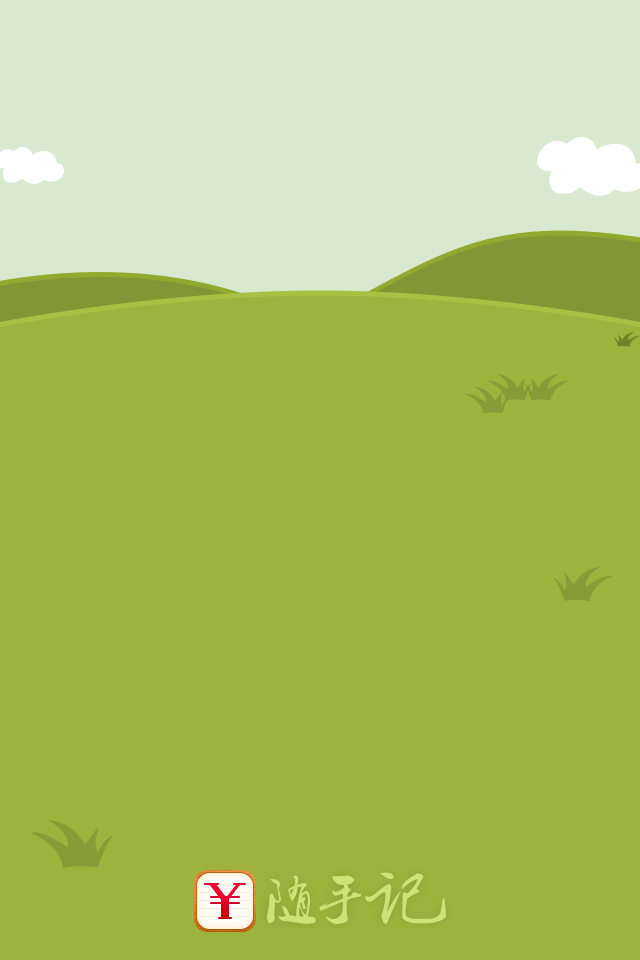
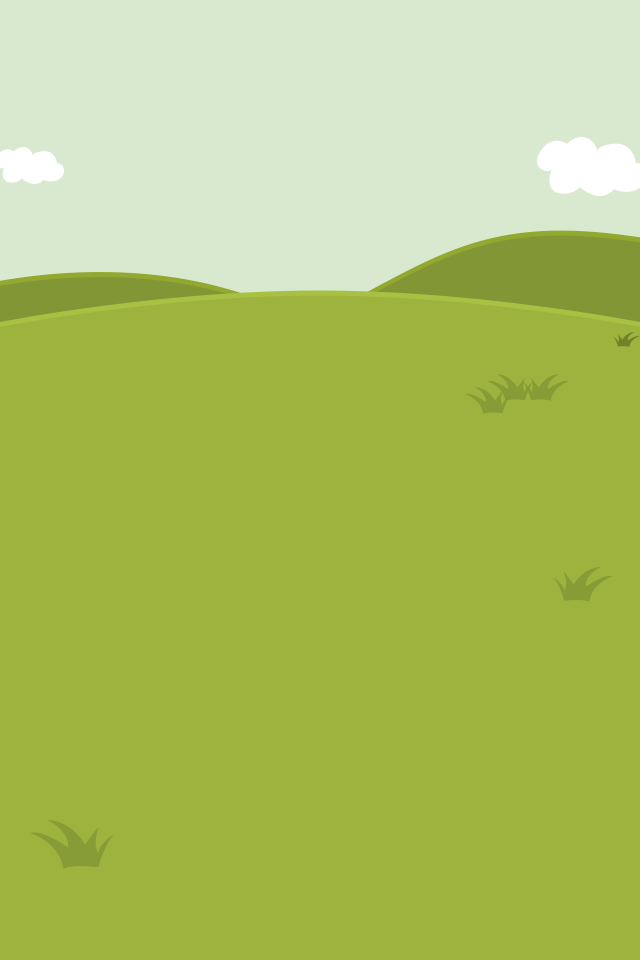
ver1.0

Changed region(s): [[0.2812, 0.9062, 0.7188, 0.9688]]

diff --git a/ssGameThree/ssGameThree.js b/ssGameThree/ssGameThree.js
@@ -523,7 +523,12 @@ cc.LoaderSceneForssGameFour=cc.Scene.extend({_logo:null,_logoTexture:null,_textu
 cc.LayerColor.create(cc.c4(253,231,214,255));this._bgLayer.setPosition(0,0);this.addChild(this._bgLayer,0);this._label=cc.LabelTTF.create("\u73a9\u547d\u52a0\u8f7d\u4e2d... 0%","Arial",35);this._label.setColor(cc.c3(64,64,64));this._label.setPosition(cc.p(0.5*this._winSize.width,0.5*this._winSize.height));this._bgLayer.addChild(this._label,10)},_initStage:function(a){this._texture2d=new cc.Texture2D;this._texture2d.initWithElement(this._logoTexture);this._texture2d.handleLoadedTexture();this._logo=
 cc.Sprite.createWithTexture(this._texture2d);this._logo.setScale(cc.CONTENT_SCALE_FACTOR());this._logo.setPosition(a);this._bgLayer.addChild(this._logo,10)},onEnter:function(){cc.Node.prototype.onEnter.call(this);this.schedule(this._startLoading,0.5)},onExit:function(){cc.Node.prototype.onExit.call(this);this._label.setString("\u73a9\u547d\u52a0\u8f7d\u4e2d... 0%")},initWithResources:function(a,c,d){this.resources=a;this.selector=c;this.target=d},_startLoading:function(){this.unschedule(this._startLoading);
 cc.Loader.preload(this.resources,this.selector,this.target);this.schedule(this._updatePercent)},_updatePercent:function(){var a=cc.Loader.getInstance().getPercentage();this._label.setString("\u73a9\u547d\u52a0\u8f7d\u4e2d... "+a+"%");100<=a&&this.unschedule(this._updatePercent)}});
-cc.LoaderSceneForssGameFour.preload=function(a,c,d){this._instance||(this._instance=new cc.LoaderSceneForssGameFour,this._instance.init());this._instance.initWithResources(a,c,d);a=cc.Director.getInstance();a.getRunningScene()?a.replaceScene(this._instance):a.runWithScene(this._instance);return this._instance};cc.DrawingPrimitive=cc.Class.extend({_renderContext:null,setRenderContext:function(a){this._renderContext=a},getRenderContext:function(){return this._renderContext},ctor:function(a){this._renderContext=a},drawPoint:function(a){cc.log("DrawingPrimitive.drawPoint() not implement!")},drawPoints:function(a,c){cc.log("DrawingPrimitive.drawPoints() not implement!")},drawLine:function(a,c){cc.log("DrawingPrimitive.drawLine() not implement!")},drawRect:function(a,c){cc.log("DrawingPrimitive.drawRect() not implement!")},
+cc.LoaderSceneForssGameFour.preload=function(a,c,d){this._instance||(this._instance=new cc.LoaderSceneForssGameFour,this._instance.init());this._instance.initWithResources(a,c,d);a=cc.Director.getInstance();a.getRunningScene()?a.replaceScene(this._instance):a.runWithScene(this._instance);return this._instance};
+cc.LoaderSceneForssPageOne=cc.Scene.extend({_logo:null,_logoTexture:null,_texture2d:null,_bgLayer:null,_label:null,_winSize:null,ctor:function(){cc.Scene.prototype.ctor.call(this);this._winSize=cc.Director.getInstance().getWinSize()},init:function(){cc.Scene.prototype.init.call(this);var a=cc.p(this._winSize.width/2,0.6*this._winSize.height);this._logoTexture=new Image;var c=this,d;this._logoTexture.addEventListener("load",d=function(){c._initStage(a);this.removeEventListener("load",d,!1)});this._logoTexture.width=
+208;this._logoTexture.height=190;this._bgLayer=cc.LayerColor.create(cc.c4(254,184,0,255));this._bgLayer.setPosition(0,0);this.addChild(this._bgLayer,0);this._label=cc.LabelTTF.create("\u73a9\u547d\u52a0\u8f7d\u4e2d... 0%","Arial",35);this._label.setColor(cc.c3(250,250,250));this._label.setPosition(cc.p(0.5*this._winSize.width,0.5*this._winSize.height));this._bgLayer.addChild(this._label,10)},_initStage:function(a){this._texture2d=new cc.Texture2D;this._texture2d.initWithElement(this._logoTexture);
+this._texture2d.handleLoadedTexture();this._logo=cc.Sprite.createWithTexture(this._texture2d);this._logo.setScale(cc.CONTENT_SCALE_FACTOR());this._logo.setPosition(a);this._bgLayer.addChild(this._logo,10)},onEnter:function(){cc.Node.prototype.onEnter.call(this);this.schedule(this._startLoading,0.5)},onExit:function(){cc.Node.prototype.onExit.call(this);this._label.setString("\u73a9\u547d\u52a0\u8f7d\u4e2d... 0%")},initWithResources:function(a,c,d){this.resources=a;this.selector=c;this.target=d},_startLoading:function(){this.unschedule(this._startLoading);
+cc.Loader.preload(this.resources,this.selector,this.target);this.schedule(this._updatePercent)},_updatePercent:function(){var a=cc.Loader.getInstance().getPercentage();this._label.setString("\u73a9\u547d\u52a0\u8f7d\u4e2d... "+a+"%");100<=a&&this.unschedule(this._updatePercent)}});
+cc.LoaderSceneForssPageOne.preload=function(a,c,d){this._instance||(this._instance=new cc.LoaderSceneForssPageOne,this._instance.init());this._instance.initWithResources(a,c,d);a=cc.Director.getInstance();a.getRunningScene()?a.replaceScene(this._instance):a.runWithScene(this._instance);return this._instance};cc.DrawingPrimitive=cc.Class.extend({_renderContext:null,setRenderContext:function(a){this._renderContext=a},getRenderContext:function(){return this._renderContext},ctor:function(a){this._renderContext=a},drawPoint:function(a){cc.log("DrawingPrimitive.drawPoint() not implement!")},drawPoints:function(a,c){cc.log("DrawingPrimitive.drawPoints() not implement!")},drawLine:function(a,c){cc.log("DrawingPrimitive.drawLine() not implement!")},drawRect:function(a,c){cc.log("DrawingPrimitive.drawRect() not implement!")},
 drawSolidRect:function(a,c,d){cc.log("DrawingPrimitive.drawSolidRect() not implement!")},drawPoly:function(a,c,d,e){cc.log("DrawingPrimitive.drawPoly() not implement!")},drawSolidPoly:function(a,c,d){cc.log("DrawingPrimitive.drawSolidPoly() not implement!")},drawCircle:function(a,c,d,e,f){cc.log("DrawingPrimitive.drawCircle() not implement!")},drawQuadBezier:function(a,c,d,e){cc.log("DrawingPrimitive.drawQuadBezier() not implement!")},drawCubicBezier:function(a,c,d,e,f){cc.log("DrawingPrimitive.drawCubicBezier() not implement!")},
 drawCatmullRom:function(a,c){cc.log("DrawingPrimitive.drawCardinalSpline() not implement!")},drawCardinalSpline:function(a,c,d){cc.log("DrawingPrimitive.drawCardinalSpline() not implement!")}});
 cc.DrawingPrimitiveCanvas=cc.DrawingPrimitive.extend({_cacheArray:[],drawPoint:function(a,c){c||(c=1);var d=cc.EGLView.getInstance().getScaleX(),e=cc.EGLView.getInstance().getScaleY(),e=cc.p(a.x*d,a.y*e);this._renderContext.beginPath();this._renderContext.arc(e.x,-e.y,c*d,0,2*Math.PI,!1);this._renderContext.closePath();this._renderContext.fill()},drawPoints:function(a,c,d){if(null!=a){d||(d=1);c=this._renderContext;var e=cc.EGLView.getInstance().getScaleX(),f=cc.EGLView.getInstance().getScaleY();
@@ -2515,13 +2520,13 @@ q.addWidget(n),n=ccs.ComRender.create(q,"GUIComponent"),null!=k&&n.setName(k),e.
 a)},setPropertyFromJsonDict:function(a,c){a.setPosition(cc.p("undefined"===typeof c.x?0:c.x,"undefined"===typeof c.y?0:c.y));a.setVisible(Boolean("undefined"===typeof c.visible?1:c.visible));a.setTag("undefined"===typeof c.objecttag?-1:c.objecttag);a.setZOrder("undefined"===typeof c.zorder?0:c.zorder);var d="undefined"===typeof c.scaley?1:c.scaley;a.setScaleX("undefined"===typeof c.scalex?1:c.scalex);a.setScaleY(d);a.setRotation("undefined"===typeof c.rotation?0:c.rotation)},setTarget:function(a,
 c){this._listener=c;this._selector=a},_callSelector:function(a,c){this._selector&&this._selector.call(this._listener,a,c)},purge:function(){cc.log("deprecated. purge is a static class now. Use 'ccs.SceneReader.purge()' instead.");this._instance=null}});ccs.SceneReader._instance=null;ccs.SceneReader.getInstance=function(){this._instance||(this._instance=new ccs.SceneReader);return this._instance};
 ccs.SceneReader.purge=function(){ccs.TriggerMng.getInstance().destroyInstance();cc.AudioEngine.end();this._instance=null};ccs.SceneReader.sceneReaderVersion=function(){return"1.2.0.0"};var s_img01="img_back.png",s_img02="img_btn_play.png",s_img03="img_btn_again.png",s_img04="img_btn_share.png",s_img05="img_cut1.png",s_img06="img_cut2.png",s_img07="img_sheep1.png",s_img08="img_sheep2.png",s_img09="img_cloud.png",s_img10="img_shield.png",s_img11="img_arrow.png",s_img12="img_mao.png",s_img13="img_flash.png",s_img14="img_sound_on.png",s_img15="img_sound_off.png",s_img16="img_star.png",s_img17="img_timer.png",s_img18="img_number.png",s_img19="img_neinei.png",s_img20="img_maozi.png",
-s_img21="img_yifu.png",s_img23="img_gift.png",s_img24="img_btn_enter.png",s_music="res/HD/music.mp3",s_effect="res/HD/effect.mp3",g_resources=[{src:s_img01},{src:s_img02},{src:s_img03},{src:s_img04},{src:s_img05},{src:s_img06},{src:s_img07},{src:s_img08},{src:s_img09},{src:s_img10},{src:s_img11},{src:s_img12},{src:s_img13},{src:s_img14},{src:s_img15},{src:s_img16},{src:s_img17},{src:s_img18},{src:s_img19},{src:s_img20},{src:s_img21},{src:s_img23},{src:s_img24},{src:s_music},{src:s_effect}];var beginLayer=cc.LayerColor.extend({winsize:null,sound:!0,init:function(){this._super();this.winsize=cc.Director.getInstance().getWinSize();this.audio=cc.AudioEngine.getInstance();var a=cc.Sprite.create(s_img01);a.setAnchorPoint(cc.p(0.5,0));a.setPosition(cc.p(0.5*this.winsize.width,0));this.addChild(a,0);a=cc.LabelTTF.create("\u624b\u6307\u70b9\u8fc7\uff0c\u7f8a\u6bdb\u98de\u98de","Arial",35);a.setAnchorPoint(cc.p(0.5,0.5));a.setPosition(cc.p(0.5*this.winsize.width,0.38*this.winsize.height));a.setColor(cc.c3(235,
-90,55));this.addChild(a,1);a=cc.MenuItemImage.create(s_img02,s_img02,this.startGame,this);a.setScale(0.8);a=cc.Menu.create(a);a.setPosition(cc.p(0.5*this.winsize.width,0.26*this.winsize.height));this.addChild(a,1);a=cc.Sprite.create(s_img07);a.setAnchorPoint(cc.p(0.5,0));a.setScale(0.8);a.setPosition(cc.p(0.5*this.winsize.width,0.45*this.winsize.height));this.addChild(a,2);var c=cc.Repeat.create(cc.Sequence.create(cc.DelayTime.create(1.2),cc.RotateBy.create(0.1,-20),cc.RotateBy.create(0.1,20),cc.RotateBy.create(0.1,
-20),cc.RotateBy.create(0.1,-20)),999);a.runAction(c);a=cc.Sprite.create(s_img14);a.setScale(0.7);a.setTag(100);a.setAnchorPoint(cc.p(1,0));a.setPosition(cc.p(this.winsize.width,0.75*this.winsize.height));this.addChild(a,1);var c=cc.RotateBy.create(0.5,10),d=cc.RotateBy.create(0.5,-10),e=cc.RotateBy.create(0.5,-10),f=cc.RotateBy.create(0.5,10),c=cc.Sequence.create(c,d,e,f);a.runAction(cc.RepeatForever.create(c));this.setTouchEnabled(!0);return!0},scheduleMao:function(){var a=cc.Sprite.create(s_img12),
-c=cc.Sprite.create(s_img12),d=cc.Sprite.create(s_img12),e=null,f=null,e=null;a.setScale(0.5);c.setScale(0.5);d.setScale(0.5);a.setPosition(cc.p(0.5*this.winsize.width,0.5*this.winsize.height));this.addChild(a,0);e=cc.Spawn.create(cc.MoveBy.create(0.4,cc.p(-60,60)),cc.RotateBy.create(0.4,180));f=cc.CallFunc.create(this.removeItem,this);e=cc.Sequence.create(e,f);a.runAction(e);c.setPosition(cc.p(0.5*this.winsize.width,0.5*this.winsize.height));this.addChild(c,0);e=cc.Spawn.create(cc.MoveBy.create(0.4,
-cc.p(60,60)),cc.RotateBy.create(0.4,180));f=cc.CallFunc.create(this.removeItem,this);e=cc.Sequence.create(e,f);c.runAction(e);d.setPosition(cc.p(0.5*this.winsize.width,0.5*this.winsize.height));this.addChild(d,0);e=cc.Spawn.create(cc.MoveBy.create(0.4,cc.p(0,-60)),cc.RotateBy.create(0.4,180));f=cc.CallFunc.create(this.removeItem,this);e=cc.Sequence.create(e,f);d.runAction(e)},startGame:function(){var a=mainLayer.create(this.sound);cc.Director.getInstance().replaceScene(cc.TransitionFade.create(0.5,
-a));!0==this.sound&&this.audio.playMusic(s_music,!0)},onTouchesBegan:function(a,c){var d=a[0].getLocation(),e=this.getChildByTag(100),f=e.getBoundingBox();cc.rectContainsPoint(f,d)&&(!1==this.sound?(this.sound=!0,e.initWithFile(s_img14)):(this.sound=!1,e.initWithFile(s_img15)),e.setAnchorPoint(cc.p(1,0)),e.setPosition(cc.p(this.winsize.width,0.75*this.winsize.height)))}}),MyScene=cc.Scene.extend({onEnter:function(){this._super();var a=new beginLayer;this.addChild(a);a.init()}});
-beginLayer.create=function(){var a=new beginLayer;a.init();var c=cc.Scene.create();c.addChild(a);return c};var cocos2dApp=cc.Application.extend({config:document.ccConfig,ctor:function(a){this._super();this.startScene=a;cc.COCOS2D_DEBUG=this.config.COCOS2D_DEBUG;cc.initDebugSetting();cc.setup(this.config.tag);cc.AppController.shareAppController().didFinishLaunchingWithOptions()},applicationDidFinishLaunching:function(){cc.Application.getInstance().getTargetPlatform();var a=cc.Director.getInstance();cc.EGLView.getInstance()._adjustSizeToBrowser();var c=[],d=[];c.push("res");cc.FileUtils.getInstance().setSearchPaths(c);
+s_img21="img_yifu.png",s_img22="img_logo.png",s_img24="img_btn_enter.png",s_music="res/HD/music.mp3",s_effect="res/HD/effect.mp3",g_resources=[{src:s_img01},{src:s_img02},{src:s_img03},{src:s_img04},{src:s_img05},{src:s_img06},{src:s_img07},{src:s_img08},{src:s_img09},{src:s_img10},{src:s_img11},{src:s_img12},{src:s_img13},{src:s_img14},{src:s_img15},{src:s_img16},{src:s_img17},{src:s_img18},{src:s_img19},{src:s_img20},{src:s_img21},{src:s_img22},{src:s_img24},{src:s_music},{src:s_effect}];var beginLayer=cc.LayerColor.extend({winsize:null,sound:!0,init:function(){this._super();this.winsize=cc.Director.getInstance().getWinSize();this.audio=cc.AudioEngine.getInstance();var a=cc.Sprite.create(s_img01);a.setAnchorPoint(cc.p(0.5,0));a.setPosition(cc.p(0.5*this.winsize.width,0));this.addChild(a,0);a=cc.LabelTTF.create("\u624b\u6307\u70b9\u8fc7\uff0c\u7f8a\u6bdb\u98de\u98de","Arial",33);a.setAnchorPoint(cc.p(0.5,0.5));a.setPosition(cc.p(0.5*this.winsize.width,0.37*this.winsize.height));a.setColor(cc.c3(0,
+0,0));this.addChild(a,1);a=cc.MenuItemImage.create(s_img02,s_img02,this.startGame,this);a=cc.Menu.create(a);a.setPosition(cc.p(0.5*this.winsize.width,0.26*this.winsize.height));this.addChild(a,1);a=cc.Sprite.create(s_img07);a.setAnchorPoint(cc.p(0.5,0));a.setScale(0.8);a.setPosition(cc.p(0.5*this.winsize.width,0.45*this.winsize.height));this.addChild(a,2);var c=cc.Repeat.create(cc.Sequence.create(cc.DelayTime.create(1.2),cc.RotateBy.create(0.1,-20),cc.RotateBy.create(0.1,20),cc.RotateBy.create(0.1,
+20),cc.RotateBy.create(0.1,-20)),999);a.runAction(c);a=cc.Sprite.create(s_img22);a.setScale(0.7);a.setPosition(cc.p(0.5*this.winsize.width,35));this.addChild(a,2);a=cc.Sprite.create(s_img14);a.setScale(0.7);a.setTag(100);a.setAnchorPoint(cc.p(1,0));a.setPosition(cc.p(this.winsize.width,0.75*this.winsize.height));this.addChild(a,1);var c=cc.RotateBy.create(0.5,10),d=cc.RotateBy.create(0.5,-10),e=cc.RotateBy.create(0.5,-10),f=cc.RotateBy.create(0.5,10),c=cc.Sequence.create(c,d,e,f);a.runAction(cc.RepeatForever.create(c));
+this.setTouchEnabled(!0);return!0},scheduleMao:function(){var a=cc.Sprite.create(s_img12),c=cc.Sprite.create(s_img12),d=cc.Sprite.create(s_img12),e=null,f=null,e=null;a.setScale(0.5);c.setScale(0.5);d.setScale(0.5);a.setPosition(cc.p(0.5*this.winsize.width,0.5*this.winsize.height));this.addChild(a,0);e=cc.Spawn.create(cc.MoveBy.create(0.4,cc.p(-60,60)),cc.RotateBy.create(0.4,180));f=cc.CallFunc.create(this.removeItem,this);e=cc.Sequence.create(e,f);a.runAction(e);c.setPosition(cc.p(0.5*this.winsize.width,
+0.5*this.winsize.height));this.addChild(c,0);e=cc.Spawn.create(cc.MoveBy.create(0.4,cc.p(60,60)),cc.RotateBy.create(0.4,180));f=cc.CallFunc.create(this.removeItem,this);e=cc.Sequence.create(e,f);c.runAction(e);d.setPosition(cc.p(0.5*this.winsize.width,0.5*this.winsize.height));this.addChild(d,0);e=cc.Spawn.create(cc.MoveBy.create(0.4,cc.p(0,-60)),cc.RotateBy.create(0.4,180));f=cc.CallFunc.create(this.removeItem,this);e=cc.Sequence.create(e,f);d.runAction(e)},startGame:function(){var a=mainLayer.create(this.sound);
+cc.Director.getInstance().replaceScene(cc.TransitionFade.create(0.5,a));!0==this.sound&&this.audio.playMusic(s_music,!0)},onTouchesBegan:function(a,c){var d=a[0].getLocation(),e=this.getChildByTag(100),f=e.getBoundingBox();cc.rectContainsPoint(f,d)&&(!1==this.sound?(this.sound=!0,e.initWithFile(s_img14)):(this.sound=!1,e.initWithFile(s_img15)),e.setAnchorPoint(cc.p(1,0)),e.setPosition(cc.p(this.winsize.width,0.75*this.winsize.height)))}}),MyScene=cc.Scene.extend({onEnter:function(){this._super();
+var a=new beginLayer;this.addChild(a);a.init()}});beginLayer.create=function(){var a=new beginLayer;a.init();var c=cc.Scene.create();c.addChild(a);return c};var cocos2dApp=cc.Application.extend({config:document.ccConfig,ctor:function(a){this._super();this.startScene=a;cc.COCOS2D_DEBUG=this.config.COCOS2D_DEBUG;cc.initDebugSetting();cc.setup(this.config.tag);cc.AppController.shareAppController().didFinishLaunchingWithOptions()},applicationDidFinishLaunching:function(){cc.Application.getInstance().getTargetPlatform();var a=cc.Director.getInstance();cc.EGLView.getInstance()._adjustSizeToBrowser();var c=[],d=[];c.push("res");cc.FileUtils.getInstance().setSearchPaths(c);
 d.push("HD");cc.FileUtils.getInstance().setSearchResolutionsOrder(d);cc.EGLView.getInstance().adjustViewPort(!0);cc.EGLView.getInstance().setDesignResolutionSize(640,840,cc.RESOLUTION_POLICY.SHOW_ALL);cc.EGLView.getInstance().resizeWithBrowserSize(!0);a.setAnimationInterval(1/this.config.frameRate);cc.LoaderSceneForGame01.preload(g_resources,function(){a.replaceScene(new this.startScene)},this);return!0}}),myApp=new cocos2dApp(MyScene);var mainLayer=cc.LayerColor.extend({winsize:null,sp_catch:null,schdSpeed:0.6,gameTime:0,gameScore:0,gameOver:!1,scoreLabel:null,timeLabel:null,score:0,onClickFlag:!1,_tag1:200,_tag2:240,sound:!1,isStop:!1,holeArray:null,timeCntl:0,beginCntl:!1,inWarning:!1,init:function(){this._super();this.winsize=cc.Director.getInstance().getWinSize();this.audio=cc.AudioEngine.getInstance();var a=cc.Sprite.create(s_img01);a.setAnchorPoint(cc.p(0.5,0));a.setPosition(cc.p(0.5*this.winsize.width,0));this.addChild(a,
 0);a=cc.Sprite.create(s_img17);a.setScale(0.5);a.setPosition(cc.p(0.1*this.winsize.width,0.95*this.winsize.height));this.addChild(a,0);a=cc.Sprite.create(s_img16);a.setScale(0.5);a.setPosition(cc.p(0.7*this.winsize.width,0.95*this.winsize.height));this.addChild(a,0);a=cc.Sprite.create(s_img09);a.setPosition(cc.p(0.5*-a.getContentSize().width,0.8*this.winsize.height));this.addChild(a,1);var c=cc.Repeat.create(cc.Sequence.create(cc.MoveTo.create(6,cc.p(this.winsize.width+0.5*a.getContentSize().width,
 0.8*this.winsize.height)),cc.DelayTime.create(1),cc.MoveTo.create(6,cc.p(0.5*-a.getContentSize().width,0.8*this.winsize.height))),999);a.runAction(c);this.timeLabel=cc.LabelAtlas.create(this.gameScore,s_img18,64,86,"0");this.timeLabel.setScale(0.4);this.timeLabel.setAnchorPoint(cc.p(0,0.5));this.timeLabel.setPosition(cc.p(0.18*this.winsize.width,0.95*this.winsize.height));this.addChild(this.timeLabel,1);this.scoreLabel=cc.LabelAtlas.create(this.gameScore,s_img18,64,86,"0");this.scoreLabel.setScale(0.4);
@@ -2537,15 +2542,14 @@ this),d=cc.Sequence.create(d,e),g.runAction(d),h.setPosition(c),this.addChild(h,
 0.5)),a.setPosition(c),this.addChild(a,4),a.runAction(cc.Sequence.create(cc.Spawn.create(cc.FadeOut.create(0.8),cc.MoveBy.create(0.8,cc.p(0,60))),cc.CallFunc.create(this.removeItem,this))))},onTouchesMoved:function(a,c){a[0].getLocation()},onTouchesEnded:function(a,c){a[0].getLocation()},onTouchesBegan:function(a,c){var d=a[0].getLocation(),e=this.getChildByTag(300),f=e.getBoundingBox();cc.rectContainsPoint(f,d)&&!this.inWarning&&(!1==this.sound?(this.sound=!0,e.initWithFile(s_img14),this.audio.playMusic(s_music,
 !0)):(this.sound=!1,e.initWithFile(s_img15),this.audio.stopMusic()),e.setAnchorPoint(cc.p(1,0)),e.setPosition(cc.p(this.winsize.width,0.75*this.winsize.height)));if(!this.inWarning)for(e=200;260>e;e++)if(f=this.getChildByTag(e),null!=f){var g=f.getBoundingBox();if(cc.rectContainsPoint(g,d))if(240>e)this.removeSheep(e);else if(!this.inWarning){this.inWarning=!0;g=cc.Sprite.create(s_img10);g.setPosition(cc.p(320,480));this.addChild(g,5);var h=cc.Sequence.create(cc.DelayTime.create(1.5),cc.CallFunc.create(this.removeItem,
 this));g.runAction(h);g=cc.Sequence.create(cc.Place.create(cc.p(320,450)),cc.DelayTime.create(1.5),cc.CallFunc.create(this.removeItem1,this));f.stopAllActions();f.setOpacity(255);f.setScale(0.8);f.setZOrder(20);f.runAction(g);f=cc.LabelTTF.create("\u545c\u545c\uff0c\u6211\u65e9\u88ab\u526a\u5149\u4e86","\u9ed1\u4f53",35);f.setAnchorPoint(cc.p(0.5,0.5));f.setPosition(cc.p(0.5*this.winsize.width,0.73*this.winsize.height));f.setColor(cc.c3(255,255,255));this.addChild(f,5);g=cc.Sequence.create(cc.DelayTime.create(1.5),
-cc.CallFunc.create(this.removeItem,this));f.runAction(g);this.sound&&this.audio.playEffect(s_effect)}}},setSound:function(a){this.sound=a}});mainLayer.create=function(a){var c=new mainLayer;c.setSound(a);c.init();a=cc.Scene.create();a.addChild(c);return a};var overLayer=cc.LayerColor.extend({winsize:null,score:0,isShared:!1,init:function(){this._super();this.winsize=cc.Director.getInstance().getWinSize();var a=cc.Sprite.create(s_img01);a.setAnchorPoint(cc.p(0.5,0));a.setPosition(cc.p(0.5*this.winsize.width,0));this.addChild(a,0);a=cc.Sprite.create(s_img13);a.setPosition(cc.p(0.5*this.winsize.width,0.6*this.winsize.height));this.addChild(a,1);var c=cc.RepeatForever.create(cc.RotateBy.create(4,360));a.runAction(c);a=cc.Sprite.create(s_img23);a.setPosition(cc.p(0.5*
-this.winsize.width,0.6*this.winsize.height));a.setTag(800);a.setRotation(-20);this.addChild(a,1);c=cc.Sequence.create(cc.DelayTime.create(0.25),cc.RotateBy.create(0.2,40),cc.RotateBy.create(0.2,-40),cc.RotateBy.create(0.2,40),cc.RotateBy.create(0.1,-20),cc.Spawn.create(cc.FadeOut.create(0.15),cc.ScaleTo.create(0.15,1.2)),cc.CallFunc.create(this.showResult,this));a.runAction(c);a=cc.LabelTTF.create("\u606d\u559c,\u4f60\u8585\u4e86"+(this.score/50).toFixed(1)+"\u65a4\u7f8a\u6bdb.","Arial",37);a.setAnchorPoint(cc.p(0.5,
-0.5));a.setTag(801);a.setPosition(cc.p(0.5*this.winsize.width,0.9*this.winsize.height));a.setColor(cc.c3(235,90,55));this.addChild(a,1);a=cc.MenuItemImage.create(s_img03,s_img03,this.gotoMainLayer,this);c=cc.Menu.create(a);a.setScale(0.8);c.setPosition(cc.p(0.5*this.winsize.width,0.4*this.winsize.height));c.setTag(100);this.addChild(c,1);a=cc.MenuItemImage.create(s_img04,s_img04,this.share2Friend,this);c=cc.Menu.create(a);a.setScale(0.8);c.setPosition(cc.p(0.5*this.winsize.width,0.3*this.winsize.height));
-c.setTag(101);this.addChild(c,1);a=cc.MenuItemImage.create(s_img24,s_img24,this.enterBBS,this);c=cc.Menu.create(a);a.setScale(0.8);c.setPosition(cc.p(0.5*this.winsize.width,0.2*this.winsize.height));c.setTag(105);this.addChild(c,1);this.setTouchEnabled(!0)},gotoMainLayer:function(){var a=beginLayer.create();cc.Director.getInstance().replaceScene(cc.TransitionFade.create(0.5,a))},showResult:function(){var a=this.getChildByTag(800),c=cc.LabelTTF.create("","Arial",37,cc.Size(500,200),cc.TEXT_ALIGNMENT_CENTER);
-c.setAnchorPoint(cc.p(0.5,0.5));c.setPosition(cc.p(0.5*this.winsize.width,0.81*this.winsize.height));c.setColor(cc.c3(235,90,55));this.addChild(c,1);a.runAction(cc.Sequence.create(cc.Spawn.create(cc.FadeIn.create(0.25),cc.ScaleTo.create(0.25,1.2)),cc.ScaleTo.create(0.15,1)));var d="";50>this.score?(d="\u6211\u8585\u7684\u7f8a\u6bdb\u592a\u5c11\uff0c\u88ab\u5c0f\u4f19\u4f34\u5b8c\u7206\uff0c\u5feb\u6765\u5e2e\u5e2e\u6211\uff01",c.setString("\u83b7\u5f97\u3010\u526a\u5200\u3011\n\u592a\u5c11\u4e86\uff0c\u505a\u6210\u793c\u7269\u81e3\u59be\u505a\u4e0d\u5230\u554a\uff01"),
-a.initWithFile(s_img05),a.setScale(1.4)):50<=this.score&&200>this.score?(d="\u6211\u8585\u4e86"+(this.score/50).toFixed(1)+"\u65a4\u7f8a\u6bdb\uff0c\u7ec7\u4e86\u4e00\u7f8a\u6bdb\u5185\u5185\u9001\u7ed9\u4f60\uff01",c.setString("\u83b7\u5f97\u3010\u7f8a\u6bdb\u5185\u5185\u3011\n\u5c41\u5c41\uff0c\u4e5f\u662f\u9700\u8981\u4fdd\u6696\u7684\uff01"),a.initWithFile(s_img19),window.wxData.imgUrl="http://aiwangames.com/ssGameThree/res/HD/shareImage1.png",window.wxFriend.imgUrl="http://aiwangames.com/ssGameThree/res/HD/shareImage1.png",
-document.getElementById("shareImage").src="http://aiwangames.com/ssGameThree/res/HD/shareImage1.png"):200<=this.score&&300>this.score?(d="\u6211\u8585\u4e86"+(this.score/50).toFixed(1)+"\u65a4\u7f8a\u6bdb\uff0c\u7ec7\u4e86\u4e00\u9876\u7f8a\u6bdb\u5e3d\u5b50\u9001\u7ed9\u4f60\uff01",c.setString("\u83b7\u5f97\u3010\u7f8a\u6bdb\u5e3d\u5b50\u3011\n\u6797\u6d77\u96ea\u539f\u7b49\u4f60\u5f81\u670d\uff01"),a.initWithFile(s_img20),window.wxData.imgUrl="http://aiwangames.com/ssGameThree/res/HD/shareImage2.png",
-window.wxFriend.imgUrl="http://aiwangames.com/ssGameThree/res/HD/shareImage2.png",document.getElementById("shareImage").src="http://aiwangames.com/ssGameThree/res/HD/shareImage2.png"):(d="\u6211\u8585\u4e86"+(this.score/50).toFixed(1)+"\u65a4\u7f8a\u6bdb\uff0c\u7ec7\u4e86\u4e00\u4ef6\u7f8a\u6bdb\u5927\u8863\u9001\u7ed9\u4f60\uff01",c.setString("\u83b7\u5f97\u3010\u7f8a\u6bdb\u5927\u8863\u3011\n\u5988\u5988\u518d\u4e5f\u4e0d\u7528\u62c5\u5fc3\u4f60\u88ab\u51bb\u574f\u4e86\uff01"),a.initWithFile(s_img21),
-window.wxData.imgUrl="http://aiwangames.com/ssGameThree/res/HD/shareImage3.png",window.wxFriend.imgUrl="http://aiwangames.com/ssGameThree/res/HD/shareImage3.png",document.getElementById("shareImage").src="http://aiwangames.com/ssGameThree/res/HD/shareImage3.png");document.title=window.wxData.desc=d;document.title=window.wxFriend.desc=d},share2Friend:function(){if(!1==this.isShared){var a=cc.Sprite.create(s_img10);a.setPosition(cc.p(0.5*this.winsize.width,0.5*this.winsize.height));a.setTag(102);this.addChild(a,
-5);a=cc.Sprite.create(s_img11);a.setPosition(cc.p(0.8*this.winsize.width,0.9*this.winsize.height));a.setTag(103);this.addChild(a,5);a=cc.LabelTTF.create("\u70b9\u51fb\u8fd9\u91cc\u5206\u4eab","\u9ed1\u4f53",35);a.setAnchorPoint(cc.p(0.5,0.5));a.setPosition(cc.p(0.5*this.winsize.width,0.78*this.winsize.height));a.setColor(cc.c3(255,255,255));a.setTag(104);this.addChild(a,5);this.getChildByTag(100)&&this.getChildByTag(100).setEnabled(!1);this.getChildByTag(101)&&this.getChildByTag(101).setEnabled(!1);
+cc.CallFunc.create(this.removeItem,this));f.runAction(g);this.sound&&this.audio.playEffect(s_effect)}}},setSound:function(a){this.sound=a}});mainLayer.create=function(a){var c=new mainLayer;c.setSound(a);c.init();a=cc.Scene.create();a.addChild(c);return a};var overLayer=cc.LayerColor.extend({winsize:null,score:0,isShared:!1,init:function(){this._super();this.winsize=cc.Director.getInstance().getWinSize();var a=cc.Sprite.create(s_img01);a.setAnchorPoint(cc.p(0.5,0));a.setPosition(cc.p(0.5*this.winsize.width,0));this.addChild(a,0);a=cc.Sprite.create(s_img13);a.setPosition(cc.p(0.5*this.winsize.width,0.6*this.winsize.height));this.addChild(a,1);var c=cc.RepeatForever.create(cc.RotateBy.create(4,360));a.runAction(c);this.showResult();a=cc.LabelTTF.create("\u606d\u559c,\u4f60\u8585\u4e86"+
+(this.score/50).toFixed(1)+"\u65a4\u7f8a\u6bdb","Arial",35);a.setAnchorPoint(cc.p(0.5,0.5));a.setTag(801);a.setPosition(cc.p(0.5*this.winsize.width,0.9*this.winsize.height));a.setColor(cc.c3(235,90,55));this.addChild(a,1);a=cc.MenuItemImage.create(s_img03,s_img03,this.gotoMainLayer,this);a=cc.Menu.create(a);a.setPosition(cc.p(0.5*this.winsize.width,0.26*this.winsize.height));a.setTag(100);this.addChild(a,1);a=cc.MenuItemImage.create(s_img04,s_img04,this.share2Friend,this);a=cc.Menu.create(a);a.setPosition(cc.p(0.5*
+this.winsize.width,0.37*this.winsize.height));a.setTag(101);this.addChild(a,1);a=cc.MenuItemImage.create(s_img24,s_img24,this.enterBBS,this);a=cc.Menu.create(a);a.setPosition(cc.p(0.5*this.winsize.width,0.15*this.winsize.height));a.setTag(105);this.addChild(a,1);a=cc.Sprite.create(s_img22);a.setScale(0.7);a.setPosition(cc.p(0.5*this.winsize.width,35));this.addChild(a,2);this.setTouchEnabled(!0)},gotoMainLayer:function(){var a=beginLayer.create();cc.Director.getInstance().replaceScene(cc.TransitionFade.create(0.5,
+a))},showResult:function(){var a=cc.Sprite.create(s_img05);a.setPosition(cc.p(0.5*this.winsize.width,0.6*this.winsize.height));this.addChild(a,5);var c=cc.LabelTTF.create("","Arial",32,cc.Size(500,200),cc.TEXT_ALIGNMENT_CENTER);c.setAnchorPoint(cc.p(0.5,0.5));c.setPosition(cc.p(0.5*this.winsize.width,0.81*this.winsize.height));c.setColor(cc.c3(235,90,55));this.addChild(c,1);var d="";50>this.score?(d="\u6211\u8585\u7684\u7f8a\u6bdb\u592a\u5c11\uff0c\u88ab\u5c0f\u4f19\u4f34\u5b8c\u7206\uff0c\u5feb\u6765\u5e2e\u5e2e\u6211\uff01",
+c.setString("\u83b7\u5f97 [ \u526a\u5200 ]\n\u592a\u5c11\u4e86\uff0c\u505a\u6210\u793c\u7269\u81e3\u59be\u505a\u4e0d\u5230\u554a"),a.initWithFile(s_img05),a.setScale(1.4)):50<=this.score&&200>this.score?(d="\u6211\u8585\u4e86"+(this.score/50).toFixed(1)+"\u65a4\u7f8a\u6bdb\uff0c\u7ec7\u4e86\u4e00\u7f8a\u6bdb\u5185\u5185\u9001\u7ed9\u4f60",c.setString("\u83b7\u5f97 [ \u7f8a\u6bdb\u5185\u5185 ]\n\u5c41\u5c41\uff0c\u4e5f\u662f\u9700\u8981\u4fdd\u6696\u7684\uff01"),a.initWithFile(s_img19),window.wxData.imgUrl=
+"http://aiwangames.com/ssGameThree/res/HD/shareImage1.png",window.wxFriend.imgUrl="http://aiwangames.com/ssGameThree/res/HD/shareImage1.png",document.getElementById("shareImage").src="http://aiwangames.com/ssGameThree/res/HD/shareImage1.png"):200<=this.score&&300>this.score?(d="\u6211\u8585\u4e86"+(this.score/50).toFixed(1)+"\u65a4\u7f8a\u6bdb\uff0c\u7ec7\u4e86\u4e00\u9876\u7f8a\u6bdb\u5e3d\u5b50\u9001\u7ed9\u4f60",c.setString("\u83b7\u5f97 [ \u7f8a\u6bdb\u5e3d\u5b50 ]\n\u6797\u6d77\u96ea\u539f\u7b49\u4f60\u5f81\u670d\uff01"),
+a.initWithFile(s_img20),window.wxData.imgUrl="http://aiwangames.com/ssGameThree/res/HD/shareImage2.png",window.wxFriend.imgUrl="http://aiwangames.com/ssGameThree/res/HD/shareImage2.png",document.getElementById("shareImage").src="http://aiwangames.com/ssGameThree/res/HD/shareImage2.png"):(d="\u6211\u8585\u4e86"+(this.score/50).toFixed(1)+"\u65a4\u7f8a\u6bdb\uff0c\u7ec7\u4e86\u4e00\u4ef6\u7f8a\u6bdb\u5927\u8863\u9001\u7ed9\u4f60",c.setString("\u83b7\u5f97 [ \u7f8a\u6bdb\u5927\u8863 ]\n\u5988\u5988\u518d\u4e5f\u4e0d\u7528\u62c5\u5fc3\u4f60\u88ab\u51bb\u574f\u4e86\uff01"),
+a.initWithFile(s_img21),window.wxData.imgUrl="http://aiwangames.com/ssGameThree/res/HD/shareImage3.png",window.wxFriend.imgUrl="http://aiwangames.com/ssGameThree/res/HD/shareImage3.png",document.getElementById("shareImage").src="http://aiwangames.com/ssGameThree/res/HD/shareImage3.png");document.title=window.wxData.desc=d;document.title=window.wxFriend.desc=d},share2Friend:function(){if(!1==this.isShared){var a=cc.Sprite.create(s_img10);a.setPosition(cc.p(0.5*this.winsize.width,0.5*this.winsize.height));
+a.setTag(102);this.addChild(a,5);a=cc.Sprite.create(s_img11);a.setPosition(cc.p(0.8*this.winsize.width,0.9*this.winsize.height));a.setTag(103);this.addChild(a,5);a=cc.LabelTTF.create("\u70b9\u51fb\u8fd9\u91cc\u5206\u4eab","\u9ed1\u4f53",35);a.setAnchorPoint(cc.p(0.5,0.5));a.setPosition(cc.p(0.5*this.winsize.width,0.78*this.winsize.height));a.setColor(cc.c3(255,255,255));a.setTag(104);this.addChild(a,5);this.getChildByTag(100)&&this.getChildByTag(100).setEnabled(!1);this.getChildByTag(101)&&this.getChildByTag(101).setEnabled(!1);
 this.getChildByTag(105)&&this.getChildByTag(105).setEnabled(!1);this.isShared=!0}},enterBBS:function(){window.location.href="http://bbs.feidee.com"},onTouchesBegan:function(a,c){!0==this.isShared&&(this.getChildByTag(100)&&this.getChildByTag(100).setEnabled(!0),this.getChildByTag(101)&&this.getChildByTag(101).setEnabled(!0),this.getChildByTag(105)&&this.getChildByTag(105).setEnabled(!0),this.removeChildByTag(102,!0),this.removeChildByTag(103,!0),this.removeChildByTag(104,!0),this.isShared=!1)},setScore:function(a){this.score=
 a}});overLayer.create=function(a){var c=new overLayer;c.setScore(a);c.init();a=cc.Scene.create();a.addChild(c);return a};

diff --git a/ssGameThree/src/overLayer.js b/ssGameThree/src/overLayer.js
@@ -7,53 +7,52 @@ var overLayer = cc.LayerColor.extend({
     {
         this._super();
         this.winsize = cc.Director.getInstance().getWinSize();
-        //背景
+
         var sp_back=cc.Sprite.create(s_img01);
         sp_back.setAnchorPoint(cc.p(0.5,0));
         sp_back.setPosition(cc.p(this.winsize.width*0.5,0));
         this.addChild(sp_back,0);
-        //光环
+
         var sp_back1=cc.Sprite.create(s_img13);
         sp_back1.setPosition(cc.p(this.winsize.width*0.5,this.winsize.height*0.6));
         this.addChild(sp_back1,1);
         var ac1=cc.RepeatForever.create(cc.RotateBy.create(4.0,360));
         sp_back1.runAction(ac1);
-        //礼物
-        var sp_back2=cc.Sprite.create(s_img23);
-        sp_back2.setPosition(cc.p(this.winsize.width*0.5,this.winsize.height*0.6));
-        sp_back2.setTag(800);
-        sp_back2.setRotation(-20);
-        this.addChild(sp_back2,1);
-        var ac2=cc.Sequence.create(cc.DelayTime.create(0.25),cc.RotateBy.create(0.2,40),cc.RotateBy.create(0.2,-40),cc.RotateBy.create(0.2,40),cc.RotateBy.create(0.1,-20),cc.Spawn.create(cc.FadeOut.create(0.15),cc.ScaleTo.create(0.15,1.2)),cc.CallFunc.create(this.showResult,this));
-        sp_back2.runAction(ac2);
-        //分数
-        var timeLabel=cc.LabelTTF.create("恭喜,你薅了"+(this.score/50).toFixed(1)+"斤羊毛.","Arial",37);
+
+        this.showResult();
+
+        var timeLabel=cc.LabelTTF.create("恭喜,你薅了"+(this.score/50).toFixed(1)+"斤羊毛","Arial",35);
         timeLabel.setAnchorPoint(cc.p(0.5,0.5));
         timeLabel.setTag(801);
         timeLabel.setPosition(cc.p(this.winsize.width*0.5,this.winsize.height*0.9));
         timeLabel.setColor(cc.c3(235,90,55));
         this.addChild(timeLabel,1);
-        //再来一次按钮
+
         var zailaiItem = cc.MenuItemImage.create(s_img03,s_img03,this.gotoMainLayer,this);
         var zailaimenu = cc.Menu.create(zailaiItem);
-        zailaiItem.setScale(0.8);
-        zailaimenu.setPosition(cc.p(this.winsize.width*0.5,this.winsize.height*0.40));
+        //zailaiItem.setScale(0.8);
+        zailaimenu.setPosition(cc.p(this.winsize.width*0.5,this.winsize.height*0.26));
         zailaimenu.setTag(100);
         this.addChild(zailaimenu, 1);
-        //分享按钮
+
         var fenxiangItem = cc.MenuItemImage.create(s_img04,s_img04,this.share2Friend,this);
         var fenxiangmenu = cc.Menu.create(fenxiangItem);
-        fenxiangItem.setScale(0.8);
-        fenxiangmenu.setPosition(cc.p(this.winsize.width*0.5,this.winsize.height*0.30));
+        //fenxiangItem.setScale(0.8);
+        fenxiangmenu.setPosition(cc.p(this.winsize.width*0.5,this.winsize.height*0.37));
         fenxiangmenu.setTag(101);
         this.addChild(fenxiangmenu, 1);
-        //进入理财社区
+
         var enterItem = cc.MenuItemImage.create(s_img24,s_img24,this.enterBBS,this);
         var entermenu = cc.Menu.create(enterItem);
-        enterItem.setScale(0.8);
-        entermenu.setPosition(cc.p(this.winsize.width*0.5,this.winsize.height*0.20));
+        //enterItem.setScale(0.8);
+        entermenu.setPosition(cc.p(this.winsize.width*0.5,this.winsize.height*0.15));
         entermenu.setTag(105);
         this.addChild(entermenu, 1);
+
+        var sp_logo=cc.Sprite.create(s_img22);
+        sp_logo.setScale(0.7);
+        sp_logo.setPosition(cc.p(this.winsize.width*0.5,35));
+        this.addChild(sp_logo, 2);
 
         this.setTouchEnabled(true);
     },
@@ -66,25 +65,26 @@ var overLayer = cc.LayerColor.extend({
 
     showResult:function()
     {
-        var _gift=this.getChildByTag(800);
-        var _label=cc.LabelTTF.create("","Arial",37,cc.Size(500,200),cc.TEXT_ALIGNMENT_CENTER);
+        var _gift=cc.Sprite.create(s_img05);
+        _gift.setPosition(cc.p(this.winsize.width*0.5,this.winsize.height*0.6));
+        this.addChild(_gift,5);
+        var _label=cc.LabelTTF.create("","Arial",32,cc.Size(500,200),cc.TEXT_ALIGNMENT_CENTER);
         _label.setAnchorPoint(cc.p(0.5,0.5));
         _label.setPosition(cc.p(this.winsize.width*0.5,this.winsize.height*0.81));
         _label.setColor(cc.c3(235,90,55));
         this.addChild(_label,1);
-        _gift.runAction(cc.Sequence.create(cc.Spawn.create(cc.FadeIn.create(0.25),cc.ScaleTo.create(0.25,1.2)),cc.ScaleTo.create(0.15,1.0)));
         var content="";
         if(this.score<50)
         {
             content="我薅的羊毛太少，被小伙伴完爆，快来帮帮我！";
-            _label.setString("获得【剪刀】\n太少了，做成礼物臣妾做不到啊！");
+            _label.setString("获得 [ 剪刀 ]\n太少了，做成礼物臣妾做不到啊");
             _gift.initWithFile(s_img05);
             _gift.setScale(1.4);
         }
         else if(this.score>=50&&this.score<200)
         {
-            content="我薅了"+(this.score/50).toFixed(1)+"斤羊毛，织了一羊毛内内送给你！";
-            _label.setString("获得【羊毛内内】\n屁屁，也是需要保暖的！");
+            content="我薅了"+(this.score/50).toFixed(1)+"斤羊毛，织了一羊毛内内送给你";
+            _label.setString("获得 [ 羊毛内内 ]\n屁屁，也是需要保暖的！");
             _gift.initWithFile(s_img19);
             window.wxData.imgUrl="http://aiwangames.com/ssGameThree/res/HD/shareImage1.png";
             window.wxFriend.imgUrl="http://aiwangames.com/ssGameThree/res/HD/shareImage1.png";
@@ -92,8 +92,8 @@ var overLayer = cc.LayerColor.extend({
         }
         else if(this.score>=200&&this.score<300)
         {
-            content="我薅了"+(this.score/50).toFixed(1)+"斤羊毛，织了一顶羊毛帽子送给你！";
-            _label.setString("获得【羊毛帽子】\n林海雪原等你征服！");
+            content="我薅了"+(this.score/50).toFixed(1)+"斤羊毛，织了一顶羊毛帽子送给你";
+            _label.setString("获得 [ 羊毛帽子 ]\n林海雪原等你征服！");
             _gift.initWithFile(s_img20);
             window.wxData.imgUrl="http://aiwangames.com/ssGameThree/res/HD/shareImage2.png";
             window.wxFriend.imgUrl="http://aiwangames.com/ssGameThree/res/HD/shareImage2.png";
@@ -101,8 +101,8 @@ var overLayer = cc.LayerColor.extend({
         }
         else
         {
-            content="我薅了"+(this.score/50).toFixed(1)+"斤羊毛，织了一件羊毛大衣送给你！";
-            _label.setString("获得【羊毛大衣】\n妈妈再也不用担心你被冻坏了！");
+            content="我薅了"+(this.score/50).toFixed(1)+"斤羊毛，织了一件羊毛大衣送给你";
+            _label.setString("获得 [ 羊毛大衣 ]\n妈妈再也不用担心你被冻坏了！");
             _gift.initWithFile(s_img21);
             window.wxData.imgUrl="http://aiwangames.com/ssGameThree/res/HD/shareImage3.png";
             window.wxFriend.imgUrl="http://aiwangames.com/ssGameThree/res/HD/shareImage3.png";
@@ -116,7 +116,6 @@ var overLayer = cc.LayerColor.extend({
     {
         if(this.isShared==false)
         {
-            //屏蔽层
             var shield1=cc.Sprite.create(s_img10);
             shield1.setPosition(cc.p(this.winsize.width*0.5,this.winsize.height*0.5));
             shield1.setTag(102);

diff --git a/ssGameThree/src/mainLayer.js b/ssGameThree/src/mainLayer.js
@@ -23,12 +23,12 @@ var mainLayer = cc.LayerColor.extend({
         this._super();
         this.winsize = cc.Director.getInstance().getWinSize();
         this.audio=cc.AudioEngine.getInstance();
-        //背景
+
         var sp_back=cc.Sprite.create(s_img01);
         sp_back.setAnchorPoint(cc.p(0.5,0));
         sp_back.setPosition(cc.p(this.winsize.width*0.5,0));
         this.addChild(sp_back,0);
-        //时间、分数图标
+
         var timer=cc.Sprite.create(s_img17);
         timer.setScale(0.5);
         timer.setPosition(cc.p(this.winsize.width*0.1,this.winsize.height*0.95));
@@ -37,13 +37,13 @@ var mainLayer = cc.LayerColor.extend({
         score.setScale(0.5);
         score.setPosition(cc.p(this.winsize.width*0.7,this.winsize.height*0.95));
         this.addChild(score,0);
-        //云彩循环移动
+
         var cloud=cc.Sprite.create(s_img09);
         cloud.setPosition(cc.p(-cloud.getContentSize().width*0.5,this.winsize.height*0.8));
         this.addChild(cloud,1);
         var acc=cc.Repeat.create(cc.Sequence.create(cc.MoveTo.create(6,cc.p(this.winsize.width+cloud.getContentSize().width*0.5,this.winsize.height*0.8)),cc.DelayTime.create(1.0),cc.MoveTo.create(6,cc.p(-cloud.getContentSize().width*0.5,this.winsize.height*0.8))),999);
         cloud.runAction(acc);
-        //时间
+
         this.timeLabel=cc.LabelAtlas.create(this.gameScore,s_img18,64,86,'0');
         this.timeLabel.setScale(0.4);
         this.timeLabel.setAnchorPoint(cc.p(0.0,0.5));
@@ -55,7 +55,7 @@ var mainLayer = cc.LayerColor.extend({
         this.scoreLabel.setPosition(cc.p(this.winsize.width*0.78,this.winsize.height*0.95));
         this.addChild(this.scoreLabel,1);
         this.holeArray=[0,0,0,0,0,0];
-        //音效开关
+
         var sound=null;
         if(this.sound==false)
         {
@@ -78,9 +78,7 @@ var mainLayer = cc.LayerColor.extend({
 
     onEnterTransitionDidFinish:function()
     {
-        //开启触摸
         this.setTouchEnabled(true);
-        //开启schedule
         this.schedule(this.addDropItems,this.schdSpeed);
         this.scheduleUpdate();
     },
@@ -411,7 +409,6 @@ var mainLayer = cc.LayerColor.extend({
             sn.setPosition(cc.p(this.winsize.width,this.winsize.height*0.75));
         }
         //this.timeCntl=0;
-        //改为碰到羊就加羊毛
         if(!this.inWarning) {
             for (var i = 200; i < 260; i++) {
                 var sheep = this.getChildByTag(i);
@@ -459,7 +456,6 @@ var mainLayer = cc.LayerColor.extend({
     }
 });
 
-//构造函数create
 mainLayer.create=function(_sound)
 {
     var _mainLayer=new mainLayer();

diff --git a/ssGameThree/src/myApp.js b/ssGameThree/src/myApp.js
@@ -32,24 +32,24 @@ var beginLayer = cc.LayerColor.extend({
         this._super();
         this.winsize = cc.Director.getInstance().getWinSize();
         this.audio=cc.AudioEngine.getInstance();
-        //背景
+
         var sp_back1=cc.Sprite.create(s_img01);
         sp_back1.setAnchorPoint(cc.p(0.5,0));
         sp_back1.setPosition(cc.p(this.winsize.width*0.5,0));
         this.addChild(sp_back1,0);
-        //提示
-        var tips=cc.LabelTTF.create("手指点过，羊毛飞飞","Arial",35);
+
+        var tips=cc.LabelTTF.create("手指点过，羊毛飞飞","Arial",33);
         tips.setAnchorPoint(cc.p(0.5,0.5));
-        tips.setPosition(cc.p(this.winsize.width*0.5,this.winsize.height*0.38));
-        tips.setColor(cc.c3(235,90,55));
+        tips.setPosition(cc.p(this.winsize.width*0.5,this.winsize.height*0.37));
+        tips.setColor(cc.c3(0,0,0));
         this.addChild(tips,1);
-        //开始按钮
+
         var kaishiItem = cc.MenuItemImage.create(s_img02,s_img02,this.startGame,this);
-        kaishiItem.setScale(0.8);
+        //kaishiItem.setScale(0.8);
         var menu = cc.Menu.create(kaishiItem);
         menu.setPosition(cc.p(this.winsize.width*0.5,this.winsize.height*0.26));
         this.addChild(menu, 1);
-        //logo
+
         var sp_back2=cc.Sprite.create(s_img07);
         sp_back2.setAnchorPoint(cc.p(0.5,0.0));
         sp_back2.setScale(0.8);
@@ -57,7 +57,12 @@ var beginLayer = cc.LayerColor.extend({
         this.addChild(sp_back2, 2);
         var ac=cc.Repeat.create(cc.Sequence.create(cc.DelayTime.create(1.2),cc.RotateBy.create(0.1,-20),cc.RotateBy.create(0.1,20),cc.RotateBy.create(0.1,20),cc.RotateBy.create(0.1,-20)),999);
         sp_back2.runAction(ac);
-        //音效开关
+
+        var sp_logo=cc.Sprite.create(s_img22);
+        sp_logo.setScale(0.7);
+        sp_logo.setPosition(cc.p(this.winsize.width*0.5,35));
+        this.addChild(sp_logo, 2);
+
         var sound=cc.Sprite.create(s_img14);
         sound.setScale(0.7);
         sound.setTag(100);
@@ -79,7 +84,6 @@ var beginLayer = cc.LayerColor.extend({
 
     scheduleMao:function()
     {
-        //羊毛飞溅
         var sp1 = cc.Sprite.create(s_img12);
         var sp2 = cc.Sprite.create(s_img12);
         var sp3 = cc.Sprite.create(s_img12);

diff --git a/ssGameThree/index.html b/ssGameThree/index.html
@@ -30,14 +30,14 @@
 <script>
     window.wxData = {
         "appId": "wxdbadef0c9642fcfd",
-        "imgUrl":'http://aiwangames.com/ssGameThree/res/HD/img_sheep1.png',
+        "imgUrl":'http://aiwangames.com/ssGameThree/res/HD/shareImage0.png',
         "link":'http://aiwangames.com/ssGameThree/',
         "desc":"羊过拔毛，随手记全民薅(hao)羊毛！",
         "title":"薅羊毛"
     };
     window.wxFriend = {
         "appId": "wxdbadef0c9642fcfd",
-        "imgUrl":'http://aiwangames.com/ssGameThree/res/HD/img_sheep1.png',
+        "imgUrl":'http://aiwangames.com/ssGameThree/res/HD/shareImage0.png',
         "link":'http://aiwangames.com/ssGameThree/',
         "desc":"羊过拔毛，随手记全民薅(hao)羊毛！",
         "title":"薅羊毛"

diff --git a/ssGameThree/cocos2d.js b/ssGameThree/cocos2d.js
@@ -41,7 +41,7 @@
             'src/resource.js',
             'src/mainLayer.js',
             'src/overLayer.js',
-            'src/myApp.js'//add your own files in order here
+            'src/myApp.js'
         ]
     };
 
@@ -74,10 +74,7 @@
         else {
             alert('You must specify either the single engine file OR the engine directory in "cocos2d.js"');
         }
-        /*********Delete this section if you have packed all files into one*******/
-
-        s.src = 'ssGameThree.js'; //IMPORTANT: Un-comment this line if you have packed all files into one
-
+        s.src = 'ssGameThree.js';
         d.body.appendChild(s);
         document.ccConfig = c;
         s.id = 'cocos2d-html5';

diff --git a/ssGameThree/src/resource.js b/ssGameThree/src/resource.js
@@ -19,7 +19,7 @@ var s_img18="img_number.png";
 var s_img19="img_neinei.png";
 var s_img20="img_maozi.png";
 var s_img21="img_yifu.png";
-var s_img23="img_gift.png";
+var s_img22="img_logo.png";
 var s_img24="img_btn_enter.png";
 var s_music="res/HD/music.mp3";
 var s_effect="res/HD/effect.mp3";
@@ -47,7 +47,7 @@ var g_resources = [
     {src:s_img19},
     {src:s_img20},
     {src:s_img21},
-    {src:s_img23},
+    {src:s_img22},
     {src:s_img24},
     {src:s_music},
     {src:s_effect}
